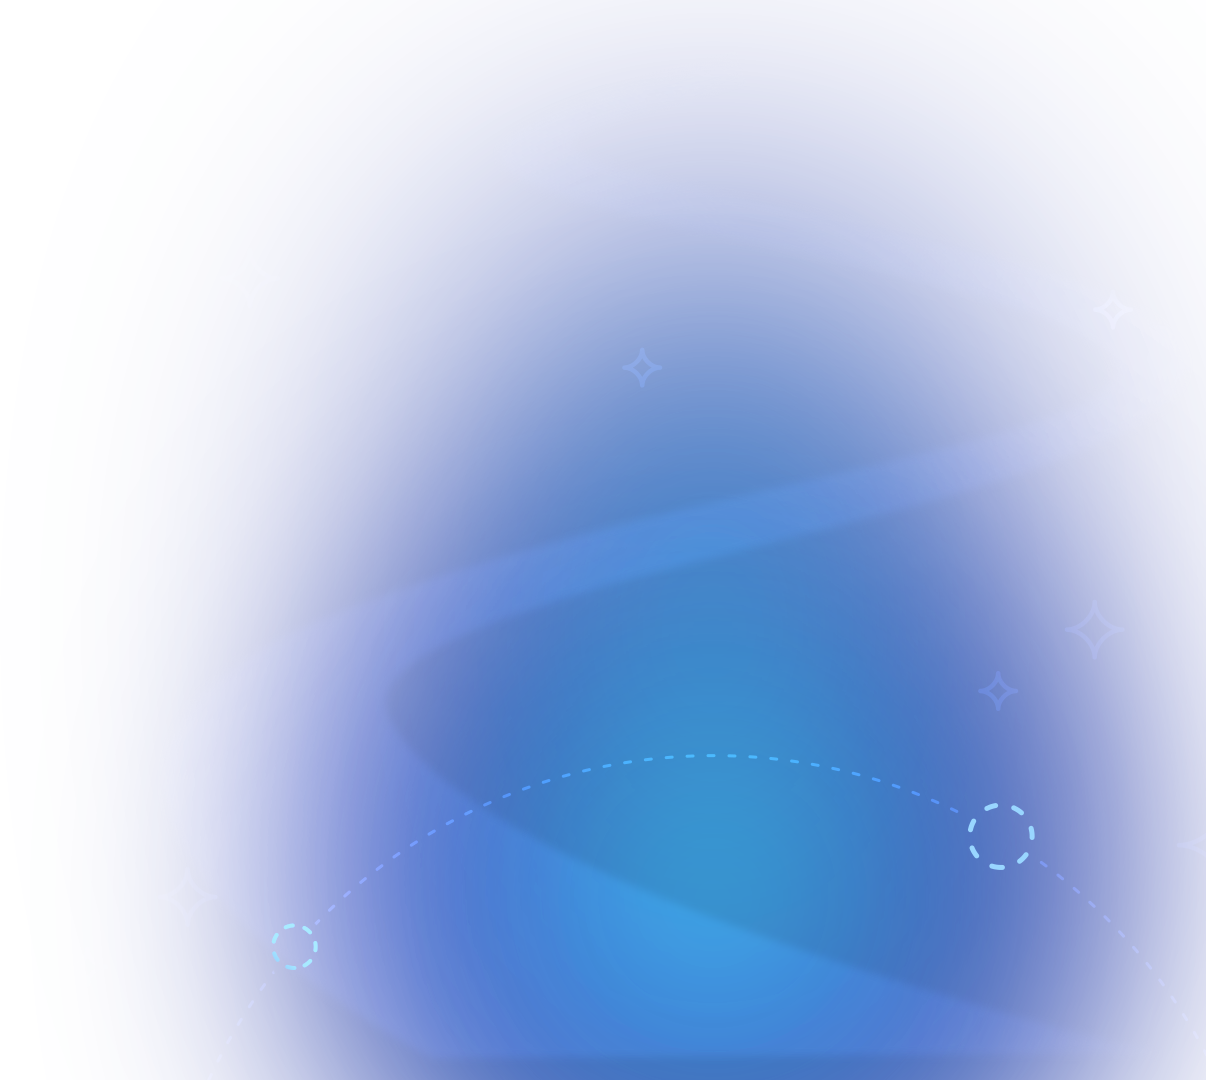
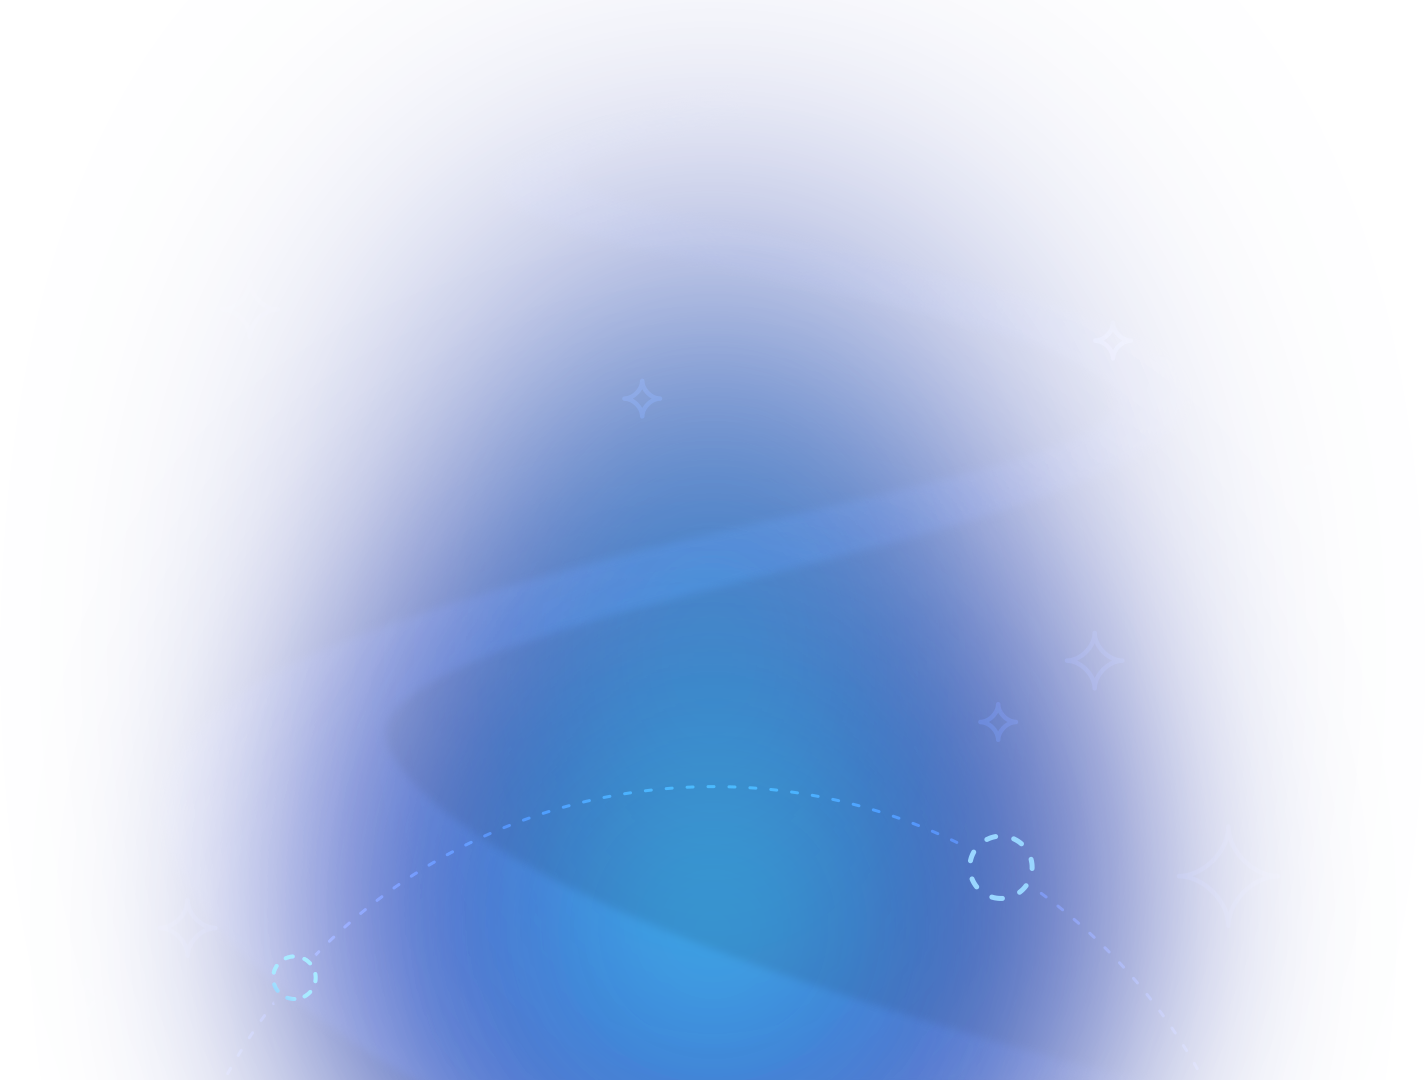
Solved bevel issue.

diff --git a/src/components/Hero/anim.js b/src/components/Hero/anim.js
@@ -1,26 +1,49 @@
 import styled from 'styled-components';
 import { MediaQuery } from 'constants/MediaQuery';
 
-const Bg = styled.div`
+import bg from '../../images/bg.png';
+
+const HeroAnim = styled.div`
+  position: fixed;
+  /* background-color: #f0f; */
+  right: 0;
+  top: 0;
+  width: 100%;
+  height: 100%;
+  z-index: -10;
   
+  ${MediaQuery.md} {
+    width: 60%;
+  }
 `;
 
-const Saturn = styled.div`
+const AnimBg = styled.div`
+  position: absolute;
+  bottom: 0;
+  left: 0;
+  height: 100%;
+  width: 100%;
+  background: transparent url(${bg}) no-repeat center bottom;
+  background-size: 100%;
+  opacity: 0.9;
 `;
 
-const Astronaut = styled.div`
+const AnimSaturn = styled.div`
+`;
+
+const AnimAstronaut = styled.div`
 `;
 
 
-const Chains = styled.div`
+const AnimChains = styled.div`
 `;
 
 
-const Defi = styled.div`
+const AnimDefi = styled.div`
 `;
 
 
-const Stables = styled.div`
+const AnimStables = styled.div`
 `;
 
-export { Bg, Saturn, Astronaut, Chains, Defi, Stables };
+export { HeroAnim, AnimBg, AnimSaturn, AnimAstronaut, AnimChains, AnimDefi, AnimStables };

diff --git a/src/components/Hero/Hero.js b/src/components/Hero/Hero.js
@@ -1,6 +1,6 @@
 import React from 'react';
-import { BaseHero, HeroContent, HeroTitle, HeroDescription, HeroActions, HeroActionGroup, HeroAnim } from './styled';
-import { Bg, Saturn, Astronaut, Chains, Defi, Stables } from './anim';
+import { BaseHero, HeroContent, HeroTitle, HeroDescription, HeroActions, HeroActionGroup } from './styled';
+import { HeroAnim, AnimBg, AnimSaturn, AnimAstronaut, AnimChains, AnimDefi, AnimStables } from './anim';
 
 import { useTranslation } from 'react-i18next';
 
@@ -30,12 +30,12 @@ const Hero = () => {
         </HeroActions>
       </HeroContent>
       <HeroAnim>
-        <Bg />
-        <Saturn />
-        <Astronaut />
-        <Chains />
-        <Defi />
-        <Stables />
+        <AnimBg />
+        <AnimSaturn />
+        <AnimAstronaut />
+        <AnimChains />
+        <AnimDefi />
+        <AnimStables />
       </HeroAnim>
     </BaseHero>
   )

diff --git a/src/components/Hero/styled.js b/src/components/Hero/styled.js
@@ -119,19 +119,4 @@ const HeroActionGroup = styled.div`
   }
 `;
 
-const HeroAnim = styled.div`
-  position: fixed;
-  background-color: #f0f;
-  right: 0;
-  top: 0;
-  width: 100%;
-  height: 100%;
-  z-index: -10;
-  
-  ${MediaQuery.md} {
-    width: 60%;
-  }
-`;
-
-
-export { BaseHero, HeroContent, HeroTitle, HeroDescription, HeroActions, HeroActionGroup, HeroAnim };
+export { BaseHero, HeroContent, HeroTitle, HeroDescription, HeroActions, HeroActionGroup };
